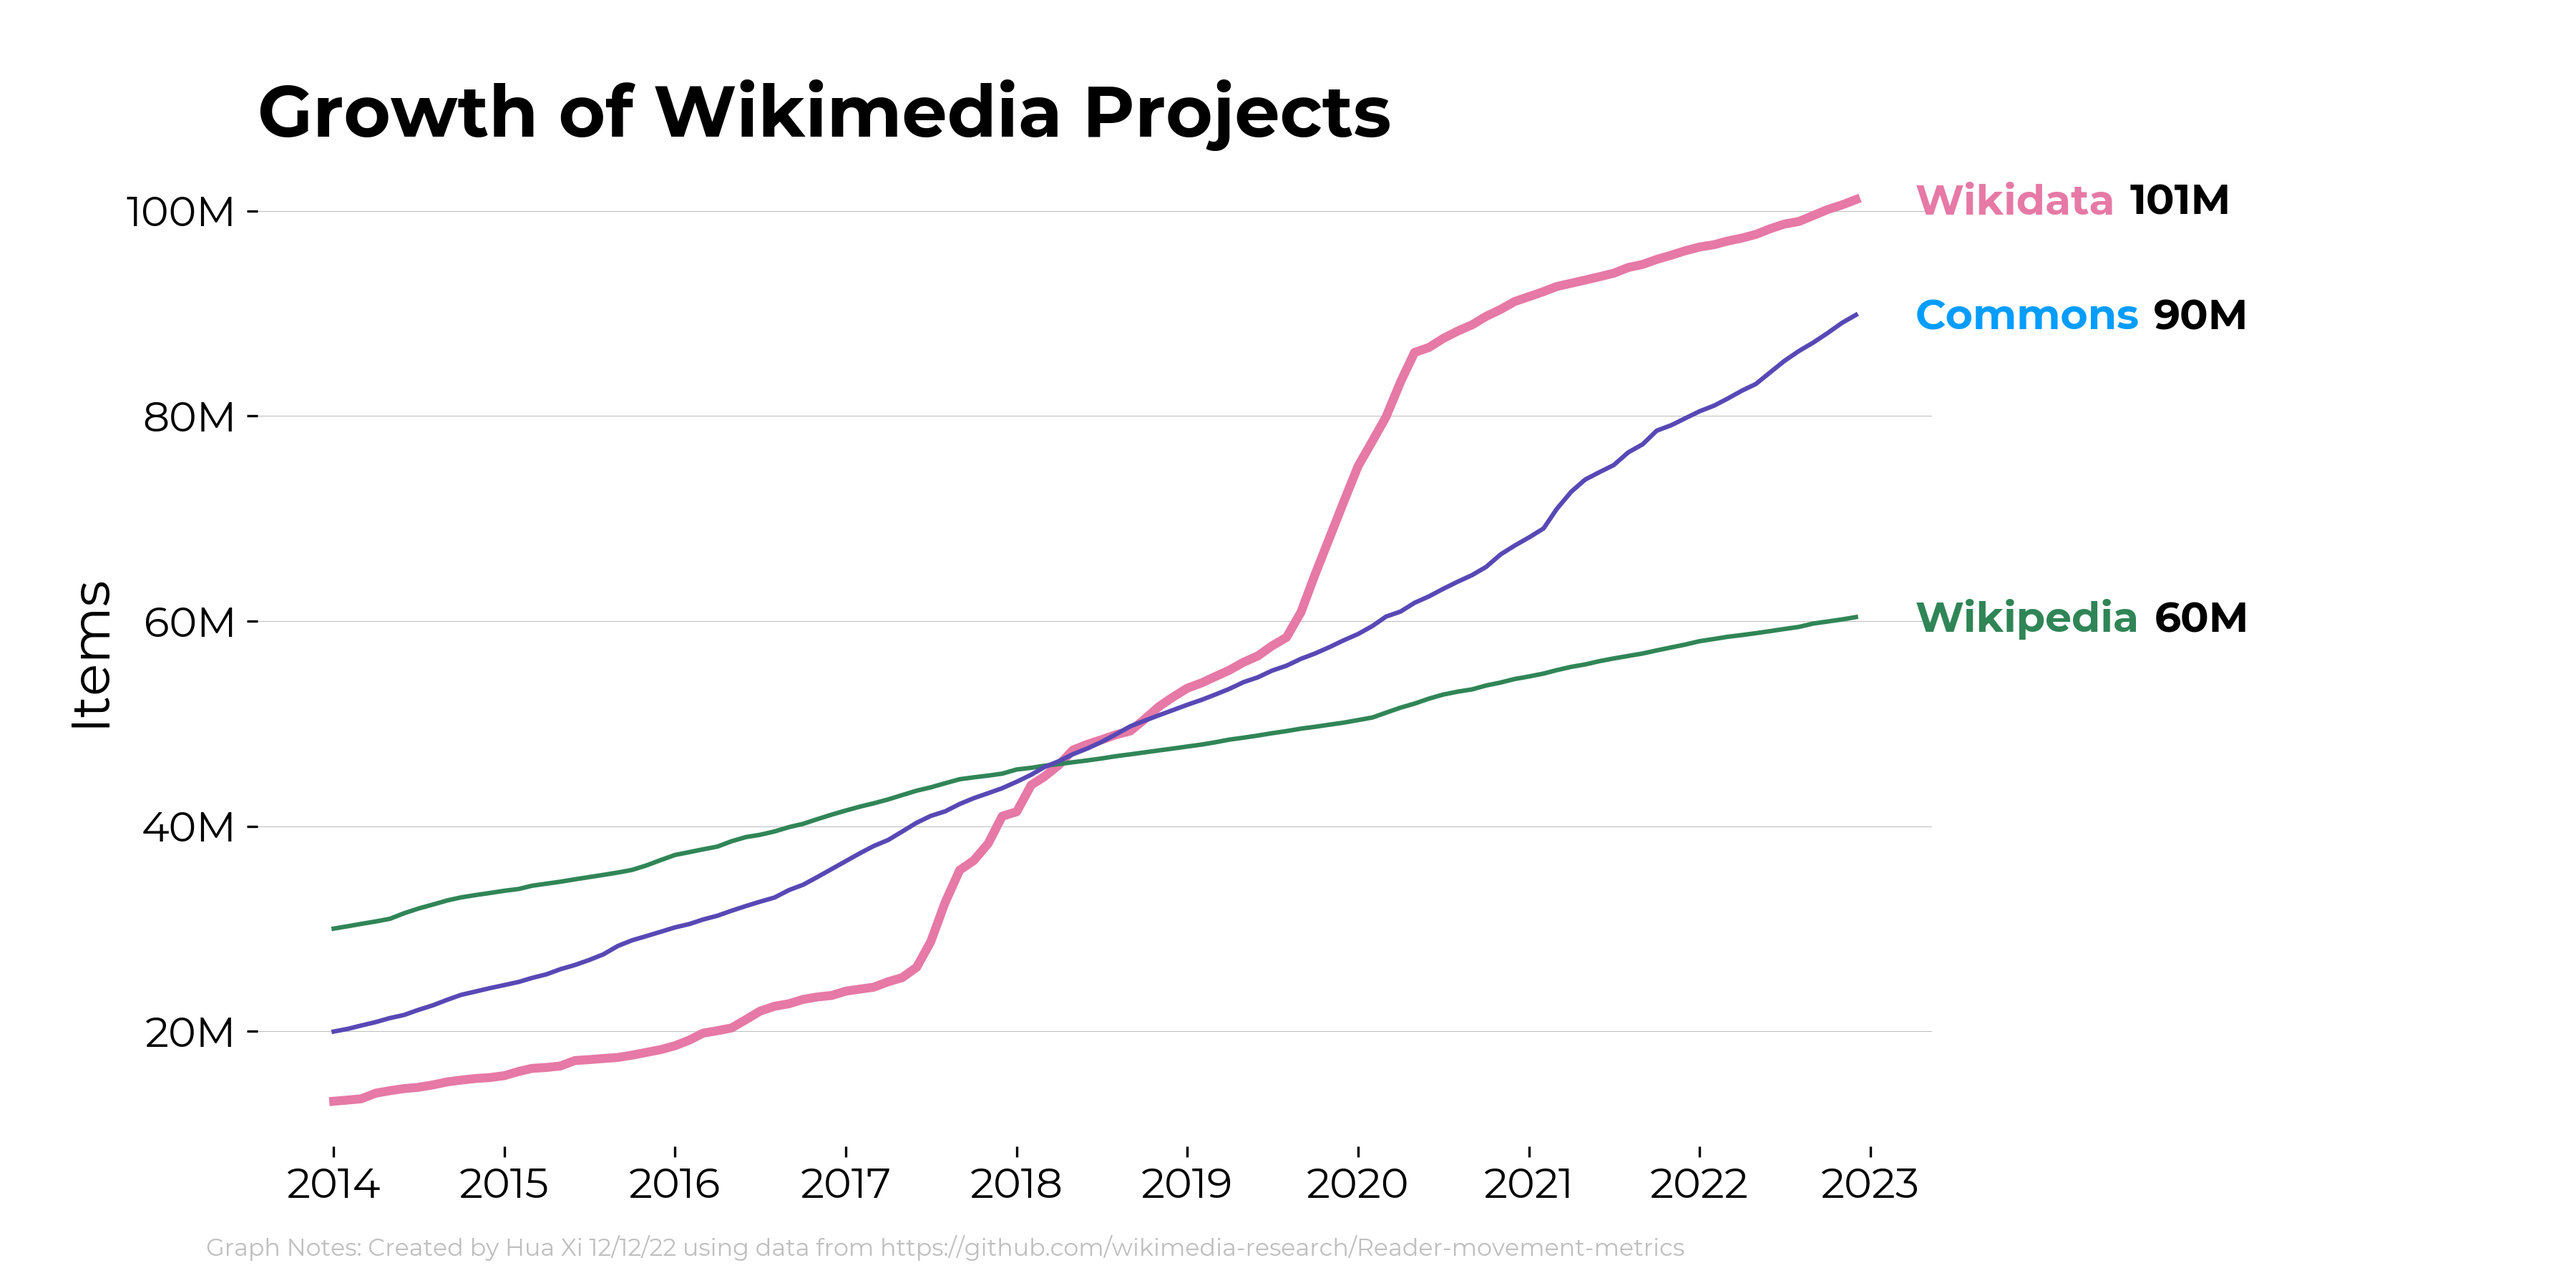
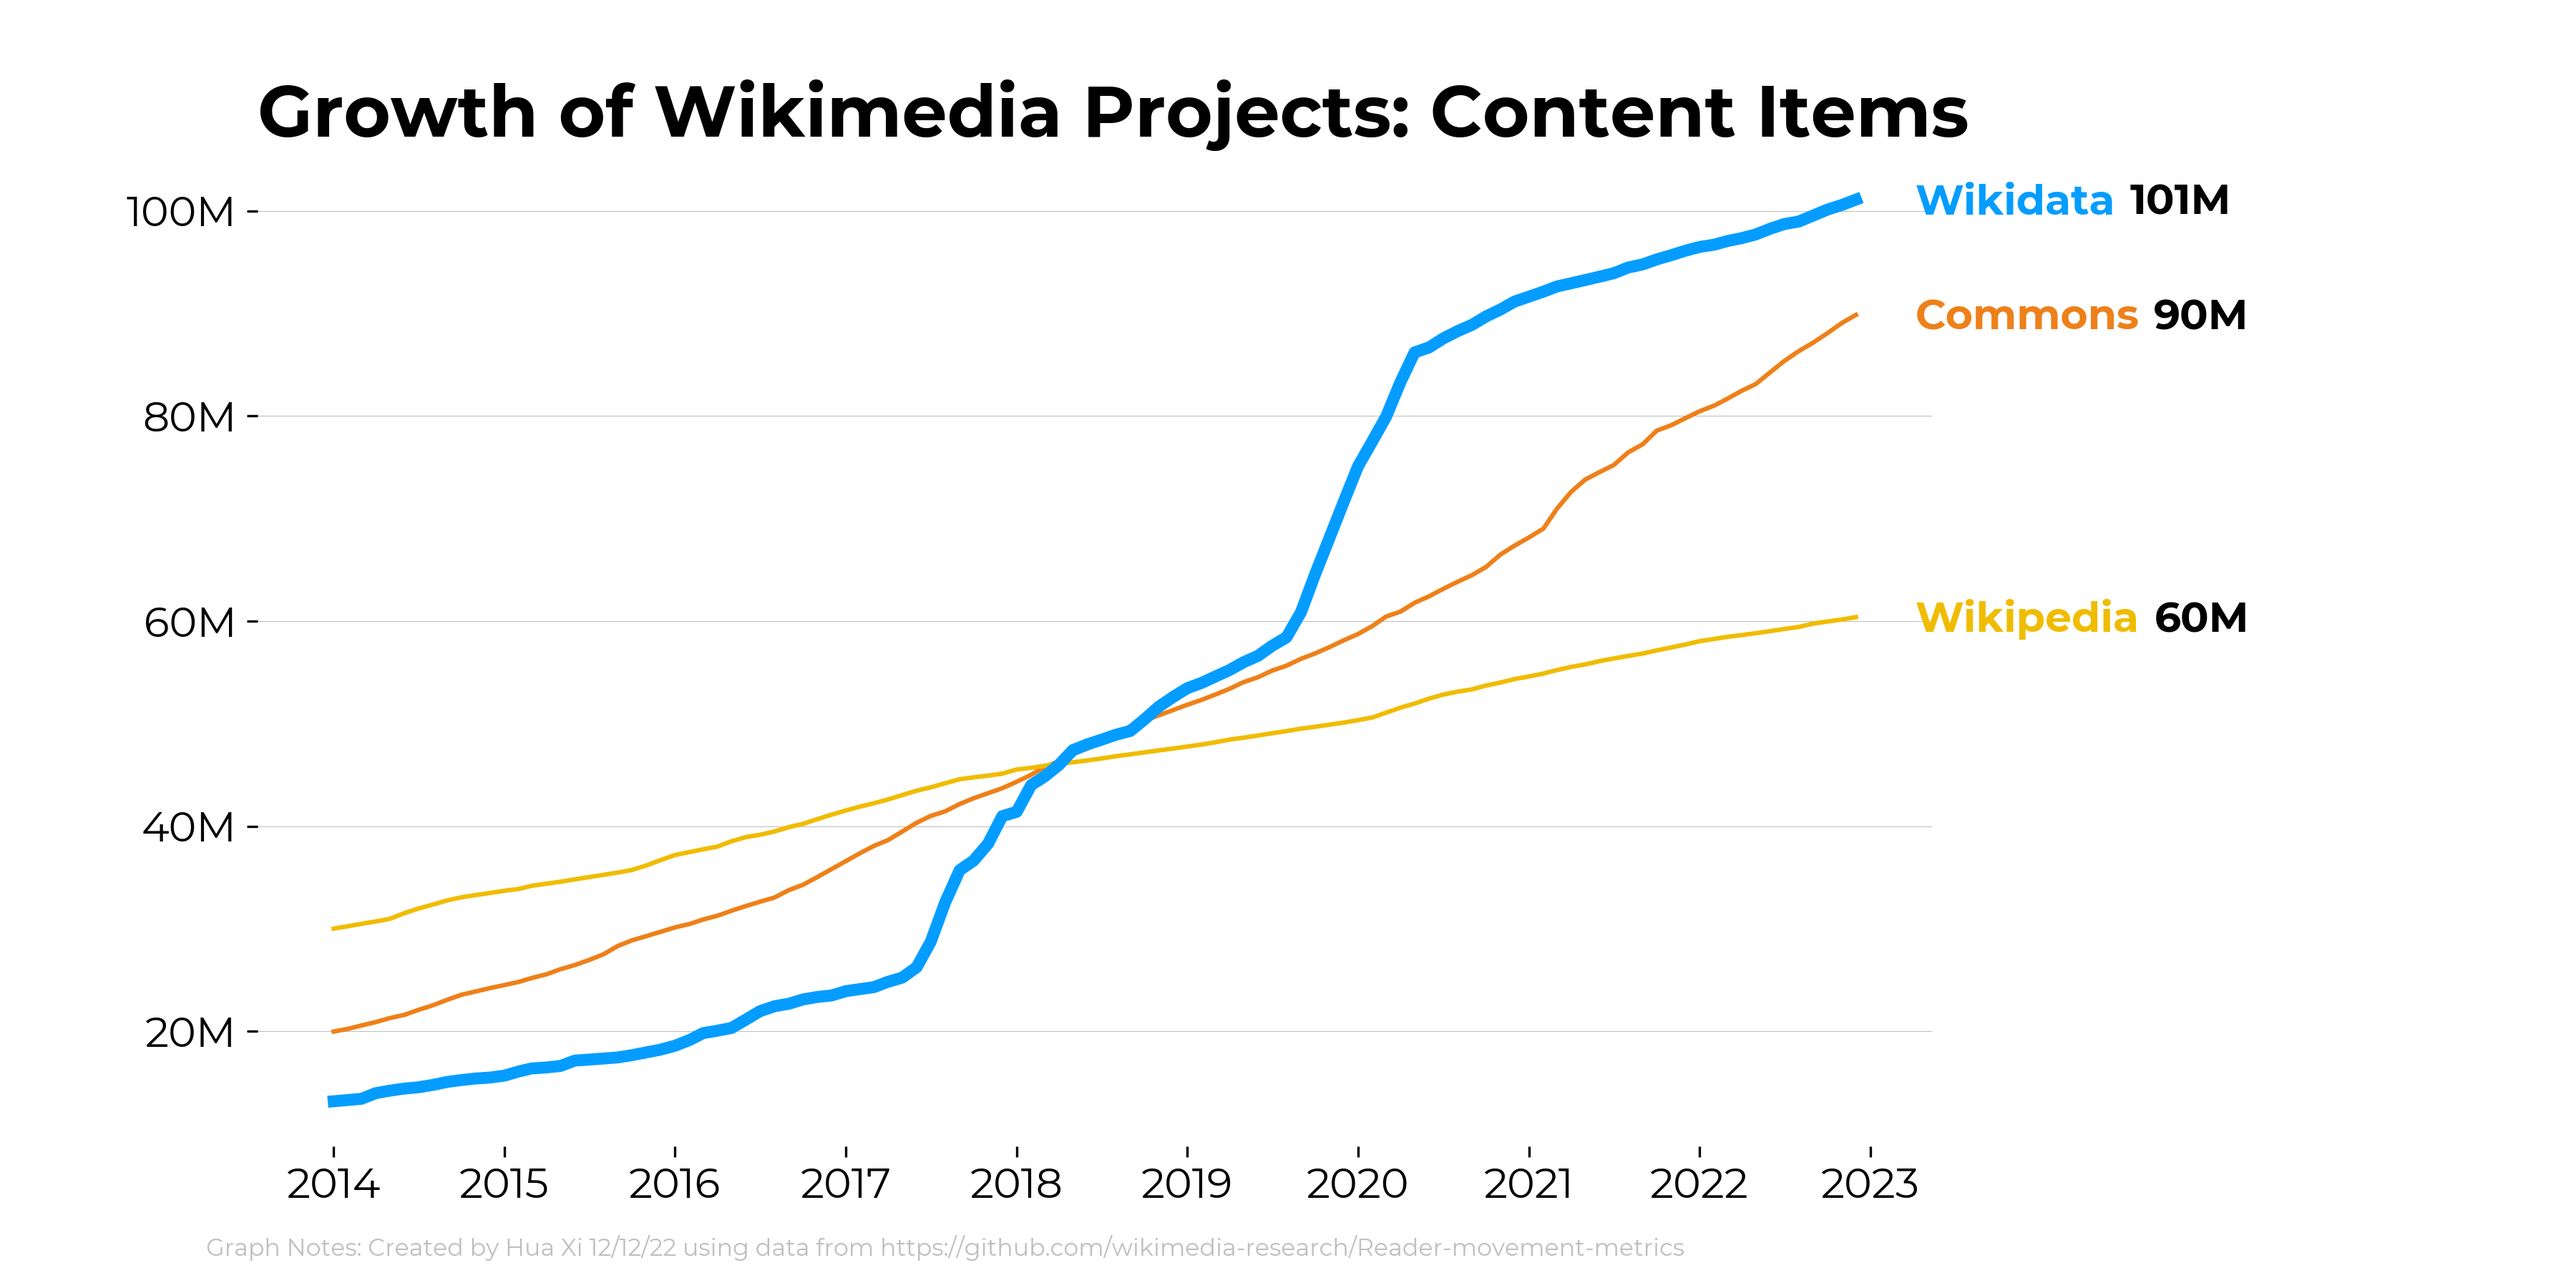
various updates

diff --git a/project_growth/project_growth.py b/project_growth/project_growth.py
@@ -22,6 +22,9 @@ df_commons = pd.read_csv('../data/commons_growth.csv')
 #print(df.month.dtype)
 
 #convert string to datetime
+df_wikidata['month'] = df_wikidata['month'].apply(lambda x: x.rsplit("T")[0])
+df_wikipedia['month'] = df_wikipedia['month'].apply(lambda x: x.rsplit("T")[0])
+df_commons['month'] = df_commons['month'].apply(lambda x: x.rsplit("T")[0])
 df_wikidata['month'] = pd.to_datetime(df_wikidata['month'])
 df_wikipedia['month'] = pd.to_datetime(df_wikipedia['month'])
 df_commons['month'] = pd.to_datetime(df_commons['month'])
@@ -38,6 +41,9 @@ df_commons = df_commons.drop(columns=['timeRange.start', 'timeRange.end'])
 
 #merge into one dataframe
 df = pd.merge(pd.merge(df_wikidata,df_wikipedia,on='month'),df_commons,on='month')
+
+#truncate date
+df = df[df["month"].isin(pd.date_range("2014-01-01", "2022-12-01"))]
 
 #---PREPARE TO PLOT ---
 #adjust plot size
@@ -62,26 +68,26 @@ plt.grid(axis = 'y', color = wmf_colors['black25'], linewidth = 0.25)
 plt.plot(df.month, df.wikidata,
 	label='_nolegend_',
 	color=wmf_colors['pink'],
-	linewidth = 3,
+	linewidth = 4,
 	zorder=6)
 plt.plot(df.month, df.wikipedia,
 	label='_nolegend_',
-	color=wmf_colors['green'],
+	color=wmf_colors['yellow'],
 	zorder=5)
 plt.plot(df.month, df.commons,
 	label='_nolegend_',
-	color=wmf_colors['purple'],
+	color=wmf_colors['orange'],
 	zorder=4)
 
 #---FORMATTING---
 #add title and axis labels
-plt.title('Growth of Wikimedia Projects',font='Montserrat',weight='bold',fontsize=24,loc='left')
+plt.title('Growth of Wikimedia Projects: Content Items',font='Montserrat',weight='bold',fontsize=24,loc='left')
 #plt.xlabel("Month",font='Montserrat', fontsize=18, labelpad=10) #source serif pro
-plt.ylabel("Items",font='Montserrat', fontsize=18)
+#plt.ylabel("Items",font='Montserrat', fontsize=18)
 
 #format axis labels
-current_values = plt.gca().get_yticks()
-plt.gca().set_yticklabels(['{:1.0f}M'.format(x*1e-6) for x in current_values])
+current_yvalues = plt.gca().get_yticks()
+plt.gca().set_yticklabels(['{:1.0f}M'.format(x*1e-6) for x in current_yvalues])
 plt.xticks(fontsize=14,fontname = 'Montserrat')
 plt.yticks(fontsize=14,fontname = 'Montserrat')
 
@@ -118,11 +124,11 @@ def annotate(data_label, legend_label, label_color, x_distance):
 		wrap=True,
 		family='Montserrat')
 annotate('wikidata', 'Wikidata',wmf_colors['pink'], 92)
-annotate('wikipedia', 'Wikipedia',wmf_colors['green'], 100)
-annotate('commons', 'Commons',wmf_colors['brightblue'], 100)
+annotate('wikipedia', 'Wikipedia',wmf_colors['yellow'], 100)
+annotate('commons', 'Commons',wmf_colors['orange'], 100)
 
 #data notes
-plt.figtext(0.08, 0.025, "Graph Notes: Created by Hua Xi 12/12/22 using data from https://github.com/wikimedia-research/Reader-movement-metrics", fontsize=8, family='Montserrat', color= wmf_colors['black25'])
+plt.figtext(0.08, 0.025, "Graph Notes: Created by Hua Xi 12/12/22 using data from https://stats.wikimedia.org/", fontsize=8, family='Montserrat', color= wmf_colors['black25'])
 
 #---SHOW GRAPH---
 #save as image
